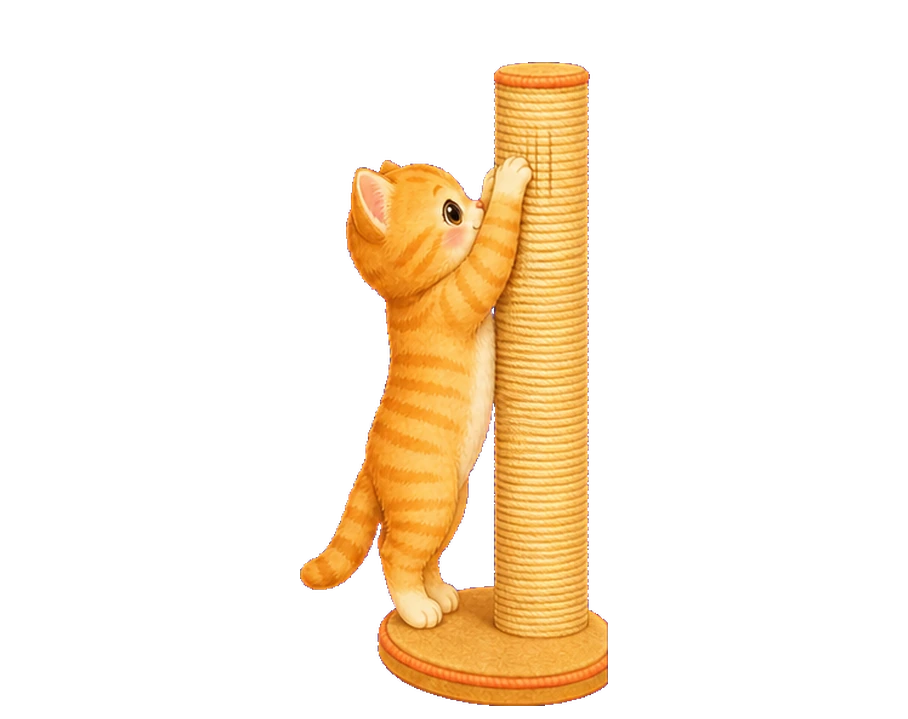
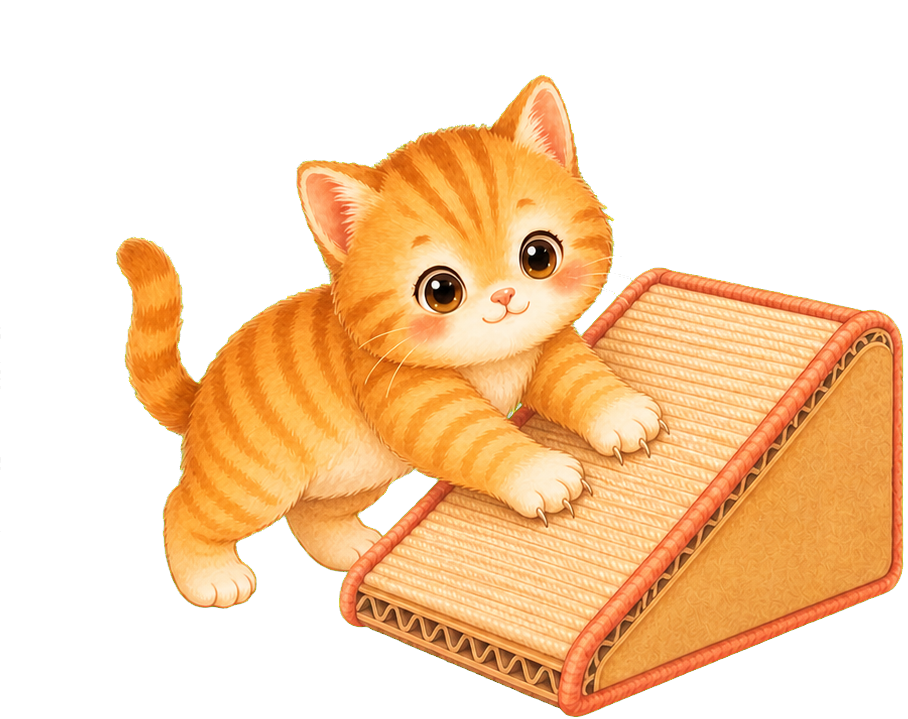
revert(pet): 猫抓板回滚到「两帧斜坡板」版(撤掉立式磨爪柱重设计)
用户决定不再折腾,回滚到最早的两帧版猫抓板(同 commit 28bd219 的状态):
- 代码:CAT_SCRATCH_FRAMES 回到 2 帧、scratchFrame 0↔1 每 220ms 切(删 SCRATCH_ORDER/MS)、
  SCRATCH_W=134/DX=-52/DY=-18、layout.scratch={left:124,bottom:100,w:78}。
- 素材:cat-scratch-0/1.webp + 斜坡板 scratch.webp 取回 28bd219 版,删掉 8 帧/立式柱版多出的
  cat-scratch-2..7。
- 保留这期间其它无关修复(nudge 不打断动作、坐着平移、进入态、动作帧预加载等)。
真机 idle(斜坡板)+ 挠板(2 帧)两态核过;tsc 通过。

diff --git a/src/app/page.tsx b/src/app/page.tsx
@@ -148,27 +148,21 @@ const YARD_ITEMS = {
   yarn: { src: "/pet/items/yarn.webp", alt: "毛线球", left: 240, bottom: 0, w: 36 },
   // 可拖家具:猫抓板(立式麻绳磨爪柱 + 宽圆底座)—— 走过去站起来挠柱。
   // w/left/bottom 调到让静态柱 ≈ 挠柱合成图里的柱子(切换不跳),见 SCRATCH_W/DX/DY。
-  scratch: { src: "/pet/items/scratch.webp", alt: "猫抓板", left: 134, bottom: 84, w: 48 },
+  scratch: { src: "/pet/items/scratch.webp", alt: "猫抓板", left: 124, bottom: 100, w: 78 },
   // 墙角小地毯:垫在地上的「地面物」(渲染 z 压到家具下、猫上 → 猫站毯上),走过去坐下洗脸
   rug: { src: "/pet/items/rug.webp", alt: "小地毯", left: 100, bottom: 9, w: 104 },
 } as const;
 type ItemKey = keyof typeof YARD_ITEMS;
-// 挠抓板 8 帧逐帧(查证真实磨爪:身体锁死、前爪沿斜面从顶端单调滑到底端 + 爪后拖痕逐帧加长)。
-// 单条 strip 出图,经 scr_fit2 按板高中位数全局缩放 + 板右下角锚定切片 → 板与静态 scratch.webp 重合不抖。
-const CAT_SCRATCH_FRAMES = [0, 1, 2, 3, 4, 5, 6, 7].map(
-  (i) => `/pet/items/cat-scratch-${i}.webp`,
-);
-// 播放序:0→7 下挠到底再 6→1 抬回顶 = ping-pong 连续上下挠(身体稳,只爪上下滑)。
-// 用「高柱版」帧(cat-scratch-*=ps8c):柱子又高又完整、8 帧跨帧一致、柱头始终在猫上方
-// —— 解决「猫挡住柱子/柱太短看不全」。静态柱 scratch.webp 也换成同款高柱(layout.scratch)。
-const SCRATCH_ORDER = [0, 1, 2, 3, 4, 5, 6, 7, 6, 5, 4, 3, 2, 1];
-const SCRATCH_MS = 110;
-// 立式磨爪柱版(2026-06-20 重设计):合成帧=猫站立挠麻绳柱,内容居中在 908×719 画布。
-// SCRATCH_W 定整体缩放,使站立猫体量 ≈ 常态 idle 猫;DX/DY 把合成图摆到柱位,并让帧里
-// 的柱子与静态 scratch.webp(layout.scratch)重合 —— 切换不跳。真机截图逐项核过。
-const SCRATCH_W = 170;
-const SCRATCH_DX = -75; // 帧 left = layout.scratch.left + DX(柱在帧右侧,补偿后柱子落到静态柱位)
-const SCRATCH_DY = -2; // 帧 bottom = layout.scratch.bottom + DY(柱底贴静态柱底)
+// 挠抓板:codex 出的「猫挠板」2 帧,在板左侧前爪上下挠(scratchFrame 在 0↔1 来回切)。
+// (2026-06-20 用户决定回滚到这个两帧版,撤掉后来的 8 帧/立式磨爪柱重设计。)
+const CAT_SCRATCH_FRAMES = [
+  "/pet/items/cat-scratch-0.webp",
+  "/pet/items/cat-scratch-1.webp",
+];
+// 显示宽 134 → 板=78(=scratch.webp.w);相对板原点偏移(猫在板左):
+const SCRATCH_W = 134;
+const SCRATCH_DX = -52; // 帧 left = layout.scratch.left + DX
+const SCRATCH_DY = -18; // 帧 bottom = layout.scratch.bottom + DY
 // 梳毛 2 帧(codex 专门画的「疏毛动作」,非复用素材):针梳贴后背 上↔下 来回梳。
 // 梳毛在猫的实时位置发生(不是固定家具),所以盖在 roam.x/roam.y 上、藏掉实时精灵。
 // 梳毛动作 → 帧序列(brushFrame 在序列里 ping-pong 来回播)。
@@ -291,8 +285,7 @@ const BOX_ANIM: Record<string, { order: number[]; ms: number }> = {
 // 在箱帧/钻入帧跟着箱子走、像素级重合。
 const BOX_W = 88;
 // 桌宠所有「靠切 <img>.src 轮播的动作盖帧」URL 汇总 —— 用于挂载时一次性预加载 + 预解码。
-// 不预载的话:某动作首次播放时浏览器才逐帧懒加载(实测刚进页面 8 帧挠柱图 0 张在缓存),
-// 110ms 高频换帧期间未就绪的帧会闪/缺(用户反馈「挠到一半另一半消失」)。
+// 不预载的话:某动作首次播放时浏览器才逐帧懒加载,高频换帧期间未就绪的帧会闪/缺。
 const ALL_ACTION_FRAMES: string[] = Array.from(
   new Set<string>([
     ...CAT_SCRATCH_FRAMES,
@@ -708,20 +701,17 @@ function PetNudge({
     }
   }, []);
 
-  // 挠抓板:scratch 期间按 SCRATCH_ORDER 循环播 8 帧(前爪沿斜面从顶到底再抬回 = 连续上下挠)。
-  // scratchFrame = 帧号(0-7),渲染处取 CAT_SCRATCH_FRAMES[scratchFrame]。
+  // 挠抓板:scratch 期间 2 帧 0↔1 来回切(前爪在板上下挠),220ms 一切。
   const [scratchFrame, setScratchFrame] = useState(0);
   useEffect(() => {
     if (roam.kind !== "scratch") {
       setScratchFrame(0);
       return;
     }
-    let k = 0;
-    setScratchFrame(SCRATCH_ORDER[0]);
-    const id = window.setInterval(() => {
-      k = (k + 1) % SCRATCH_ORDER.length;
-      setScratchFrame(SCRATCH_ORDER[k]);
-    }, SCRATCH_MS);
+    const id = window.setInterval(
+      () => setScratchFrame((f) => (f === 0 ? 1 : 0)),
+      220,
+    );
     return () => clearInterval(id);
   }, [roam.kind]);
 